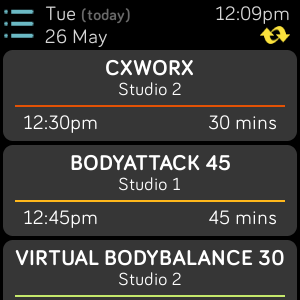
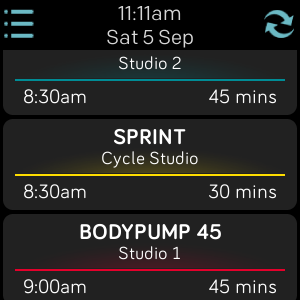
status bar clean up

diff --git a/resources/styles.css b/resources/styles.css
@@ -23,18 +23,20 @@ text {
 }
 #status-bar text {
     y: 20;
-    font-size: 20;
-    font-family: Colfax-Regular;
+    font-family: Colfax-Medium;
     text-anchor: middle;
-    fill: #d6d6d6;
 }
 #status-bar text#time {
     x: 50%;
+    font-size: 20;
+    fill: #d6d6d6;
     text-length: 7;
 }
 #status-bar text#date {
     x: 50%;
-    y: "$";
+    y: "$-1";
+    font-size: 18;
+    fill: "fb-light-gray";
     text-length: 16;
 }
 #status-bar image#menu-btn {
@@ -102,6 +104,7 @@ text {
     y: "$+72";
     fill: #6bb9c4;
     font-size: 20;
+    font-family: Colfax-Regular;
     text-anchor: middle;
     text-length: 32;
 }
@@ -109,7 +112,7 @@ text {
     y: "$+2";
     fill: "fb-aqua";
     font-size: 18;
-    font-family: System-Bold;
+    font-family: Colfax-Medium;
 }
 #loading-screen gradientRect {
     width: 100%;
@@ -148,7 +151,7 @@ text {
     y: 0;
     width: 25;
     height: 25;
-    fill: "#fae13c";
+    fill: #fae13c;
 }
 .side-menu-gradient {
     width: 100%;

diff --git a/app/helpers.js b/app/helpers.js
@@ -18,8 +18,8 @@ export function statusBarController(element) {
         PhoneIcon       : element.getElementById("no-phone"),
         setDate(dateObj) {
             this.DateLabel.text = `${DAYS_SHORT[dateObj.getDay()]} ` +
-                                  `${dateObj.getDate()} ` +
-                                  `${MONTHS_SHORT[dateObj.getMonth()]}`;
+                                  `(${dateObj.getDate()} ` +
+                                  `${MONTHS_SHORT[dateObj.getMonth()]})`;
             this.TimeLabel.text  = formatTo12hrTime(dateObj);
         },
         setTime(dateObj) {
